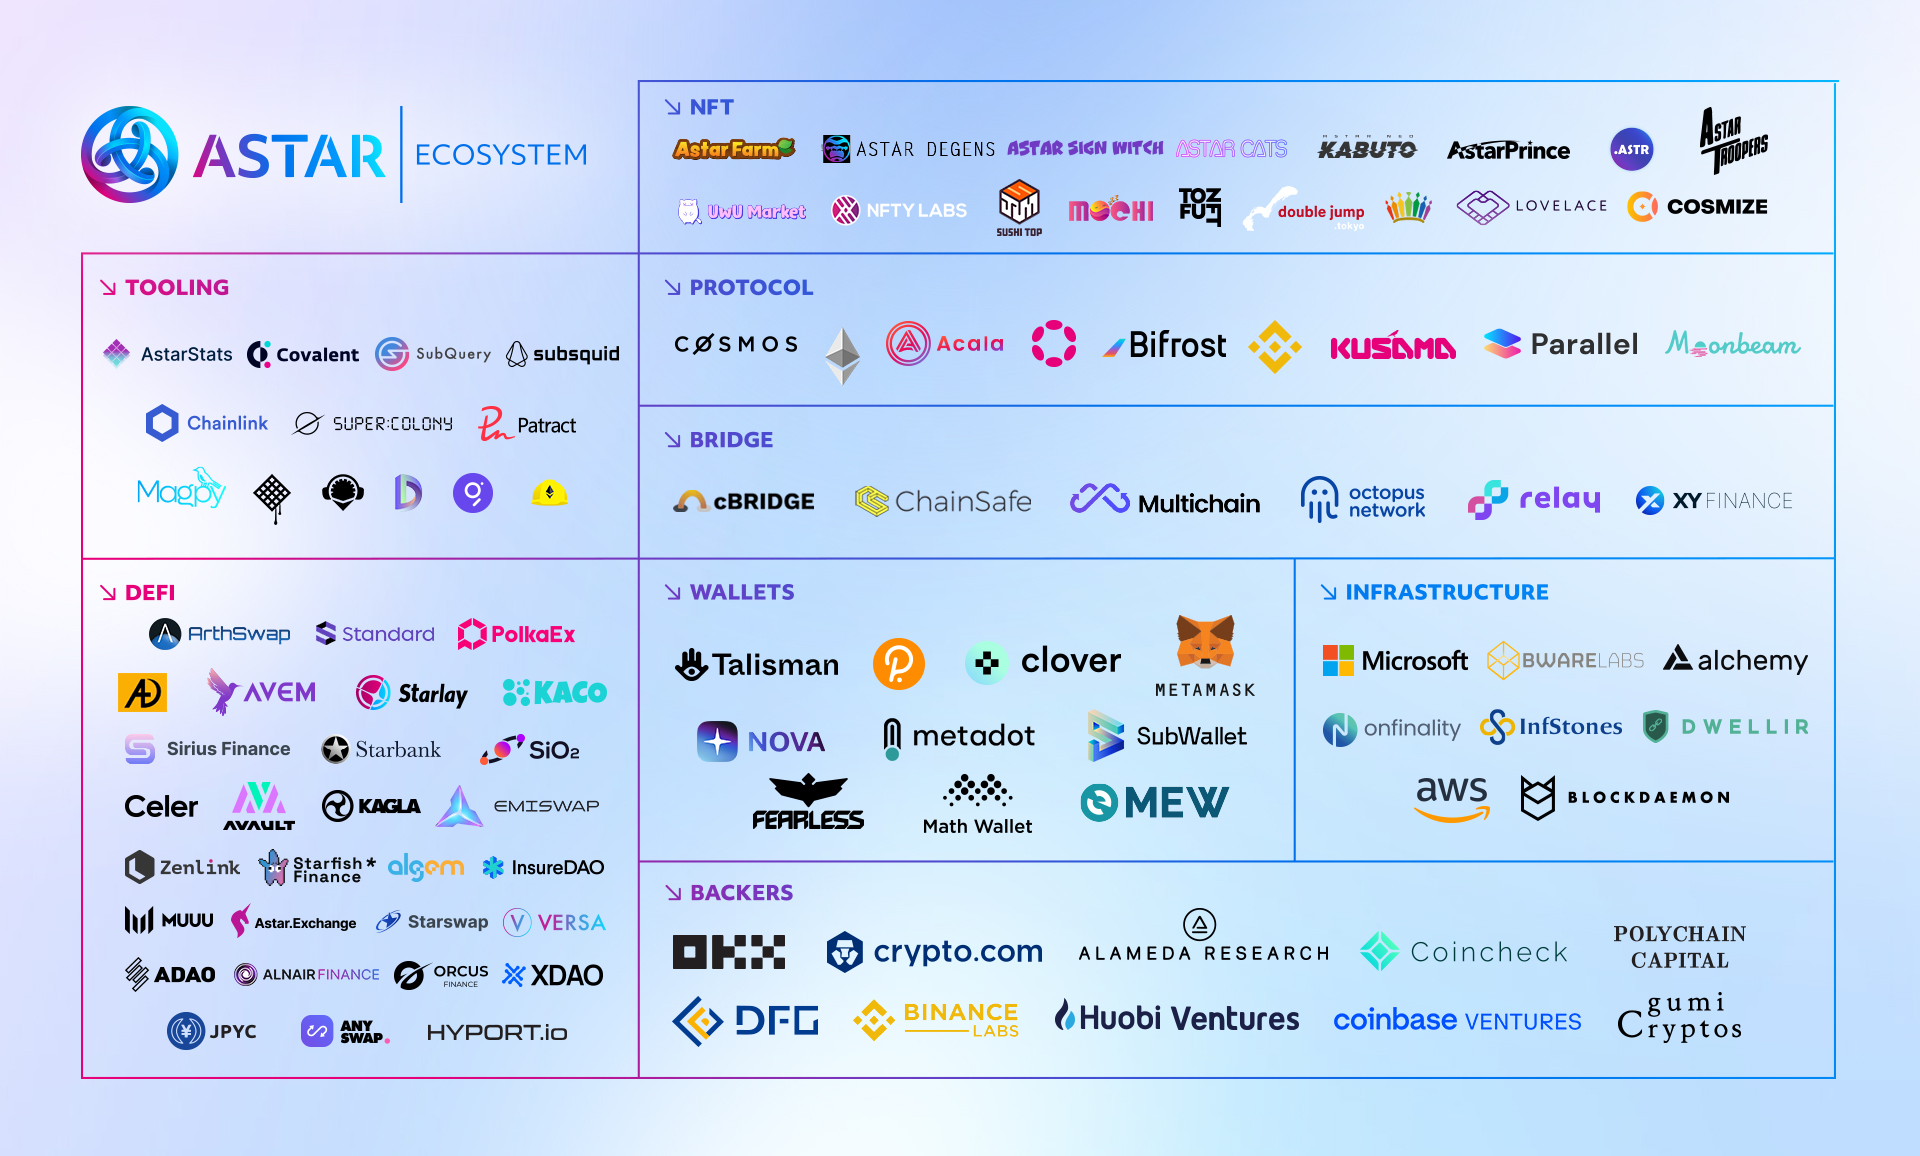
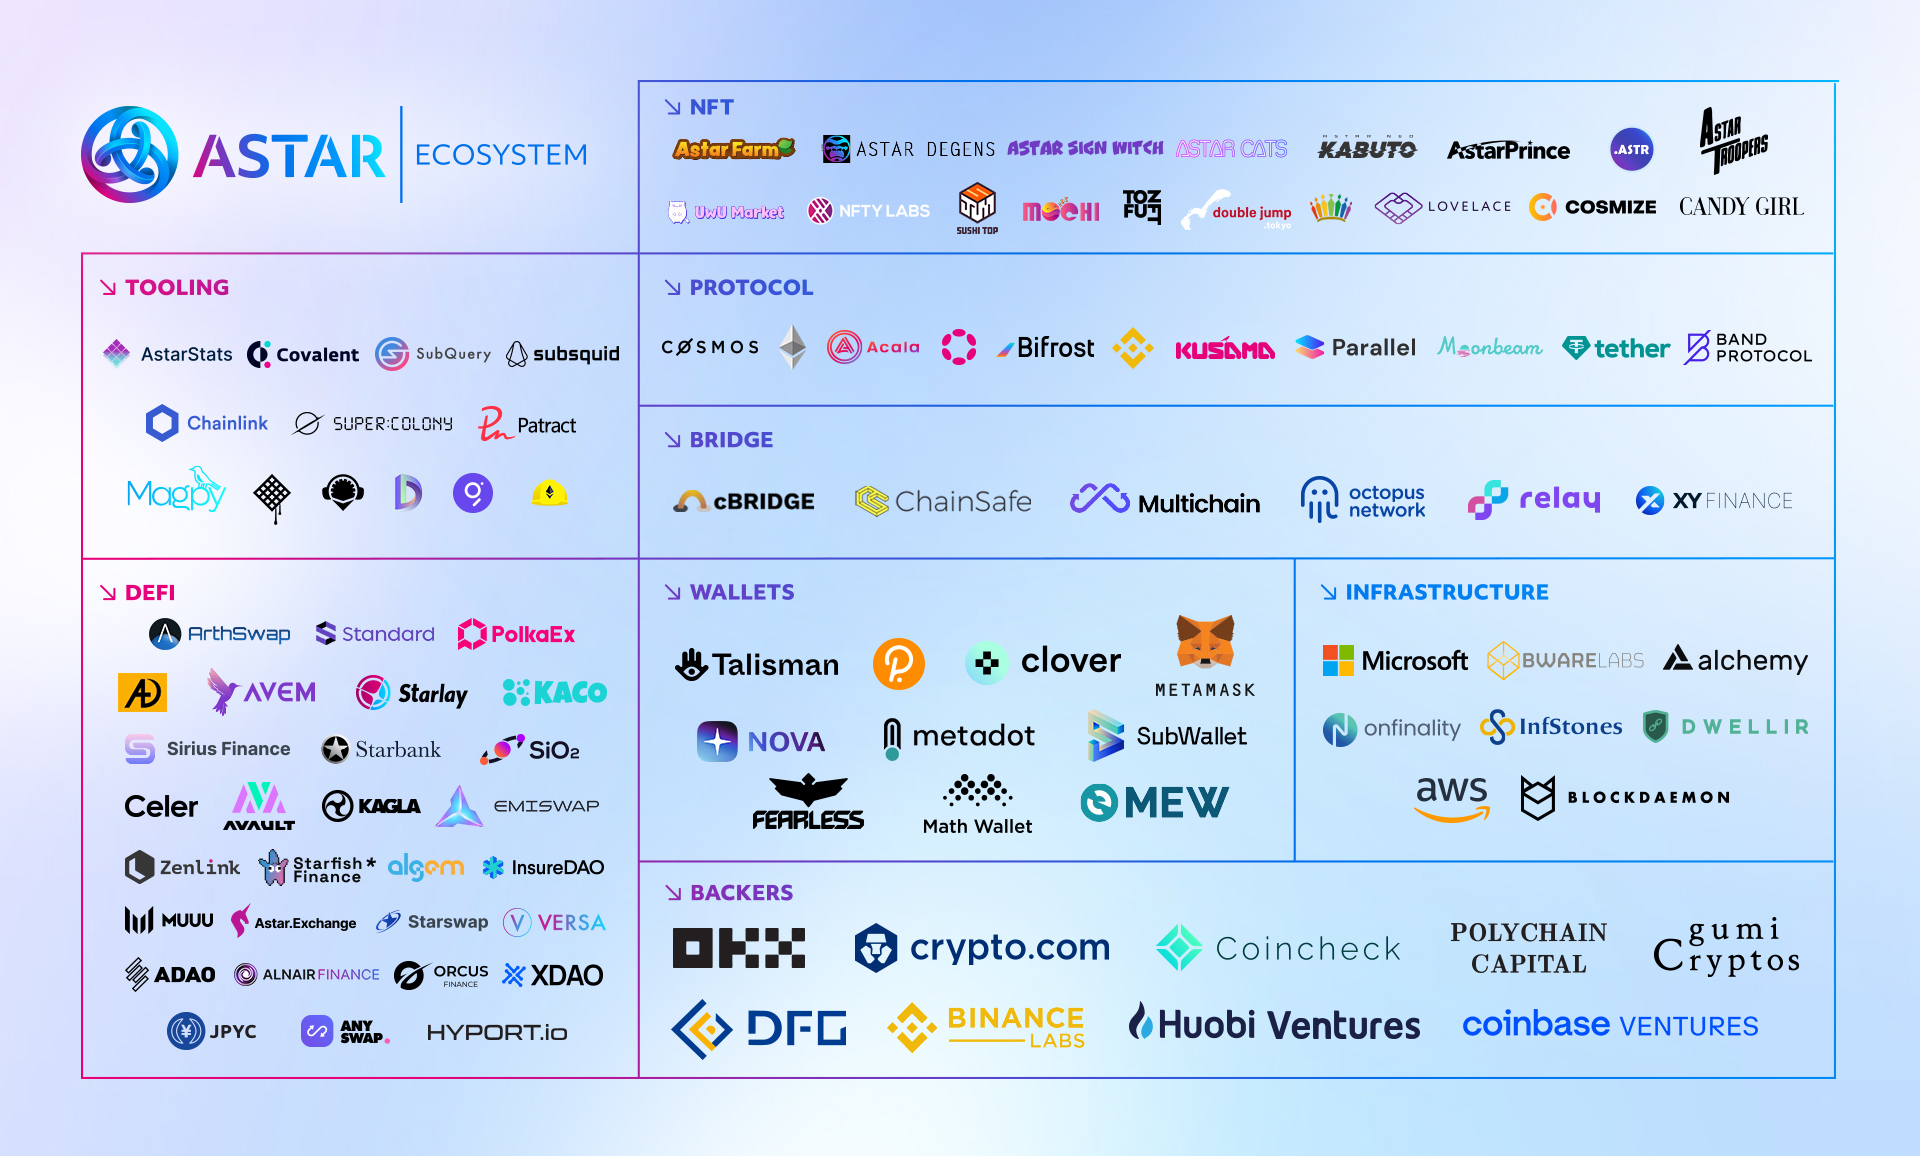
Update ecosystem map

diff --git a/docs/ecosystem/index.md b/docs/ecosystem/index.md
@@ -7,7 +7,7 @@ import {useCurrentSidebarCategory} from '@docusaurus/theme-common';
 ![ecosystem map](./img/2.jpg)
 Astar Network is a permissionless blockchain, only the most used dApps are listed in the overview. 
 
-(source: Sep 28, 2022)
+(source: Nov 15, 2022)
 
 <DocCardList items={useCurrentSidebarCategory().items}/>
 ```
